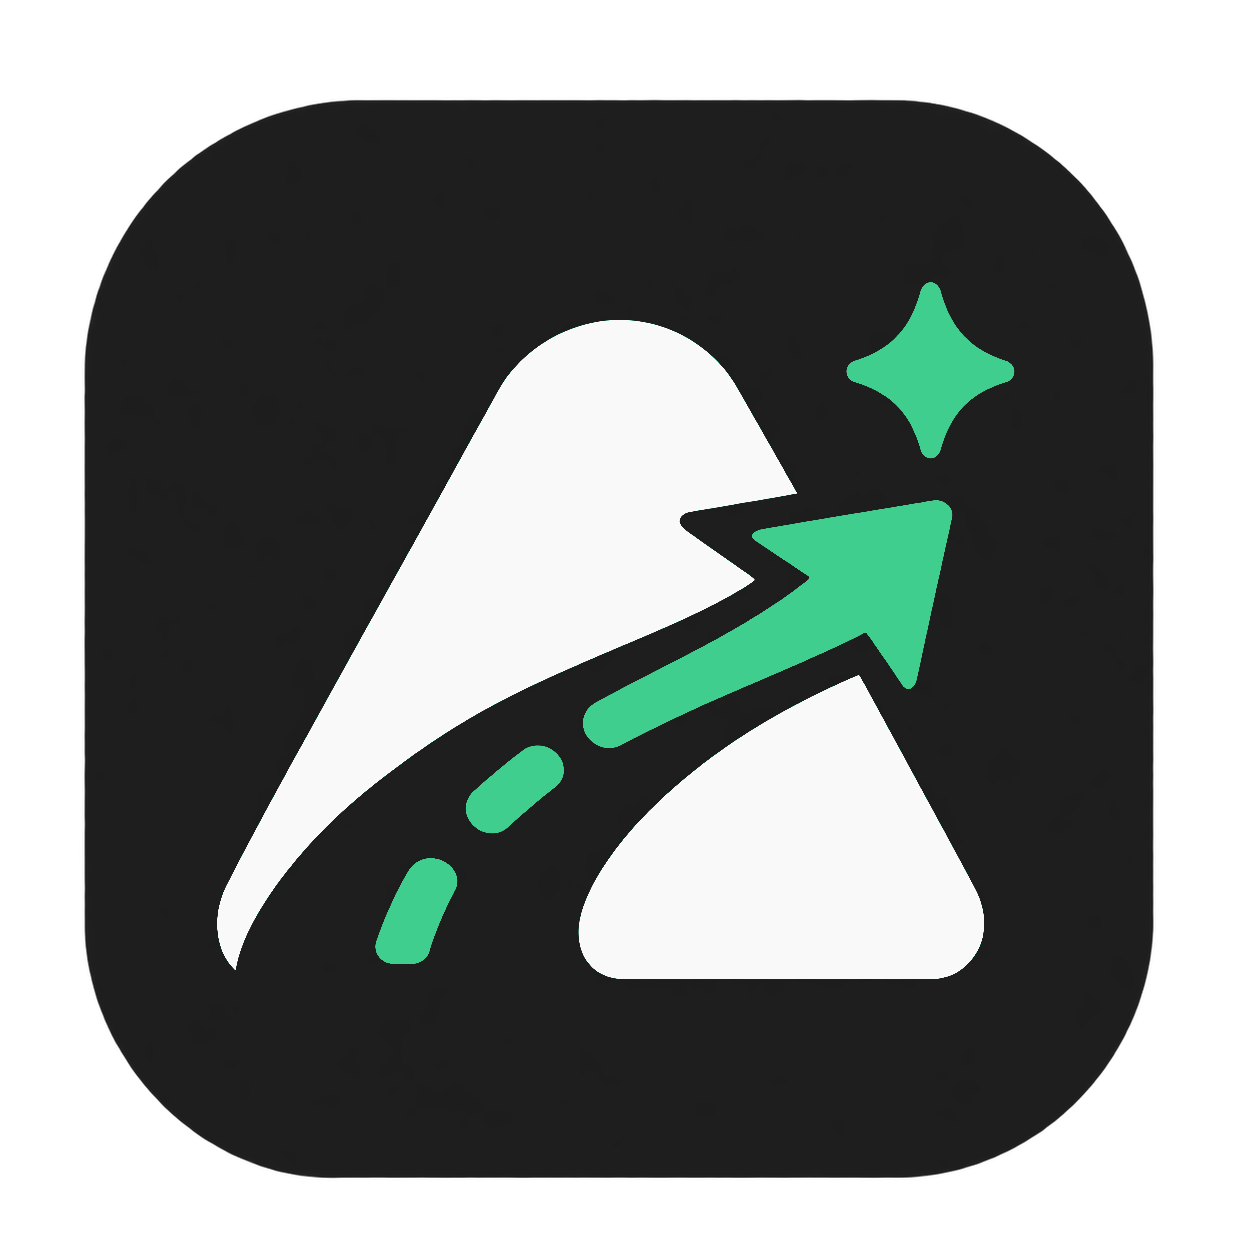
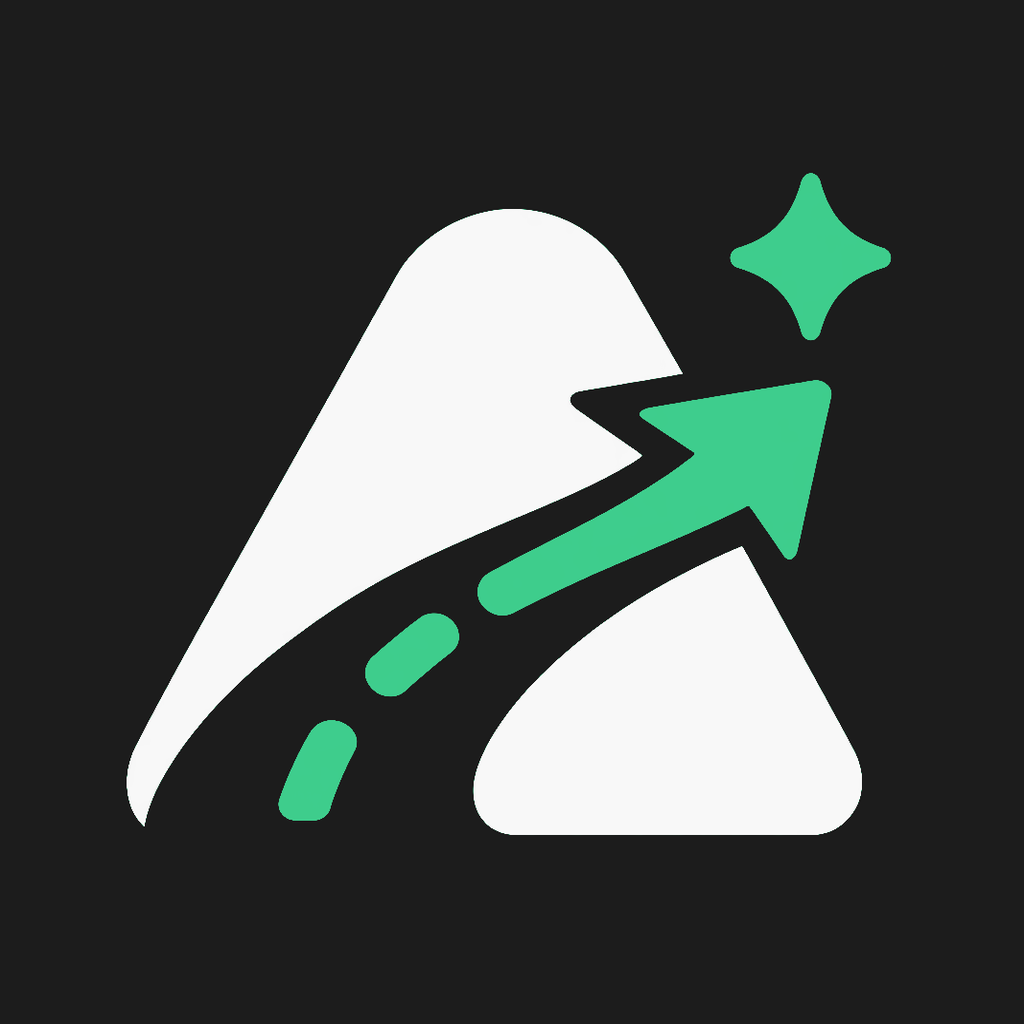
fix(app): 앱 아이콘을 1024 꽉 찬 정사각형으로

diff --git a/apps/app/scripts/brand.py b/apps/app/scripts/brand.py
@@ -54,7 +54,12 @@ def place(im, box, size, ratio):
 
 
 # 아이콘, 가로 로고 다크 변형
-img(recolor("icon.png", INK, GREEN, PAPER)).save(ROOT / "icon-dark.png")
+# 앱 아이콘은 OS가 마스크를 씌우므로 둥근 사각형 영역으로 잘라 INK로 꽉 채운 1024 RGB로 만든다.
+ic = img(recolor("icon.png", INK, GREEN, PAPER))
+ic = ic.crop(ic.getchannel("A").point(lambda v: 255 if v > 128 else 0).getbbox())
+flat = Image.new("RGBA", ic.size, INK)
+flat.alpha_composite(ic)
+flat.convert("RGB").resize((1024, 1024), Image.LANCZOS).save(ROOT / "icon-dark.png")
 img(recolor("wordmark.png", INK, GREEN, PAPER)).save(ROOT / "wordmark-dark.png")
 
 # 글자만 흰색으로 (x 700 이후, 알파 128 초과 행/열로 다시 자름)
